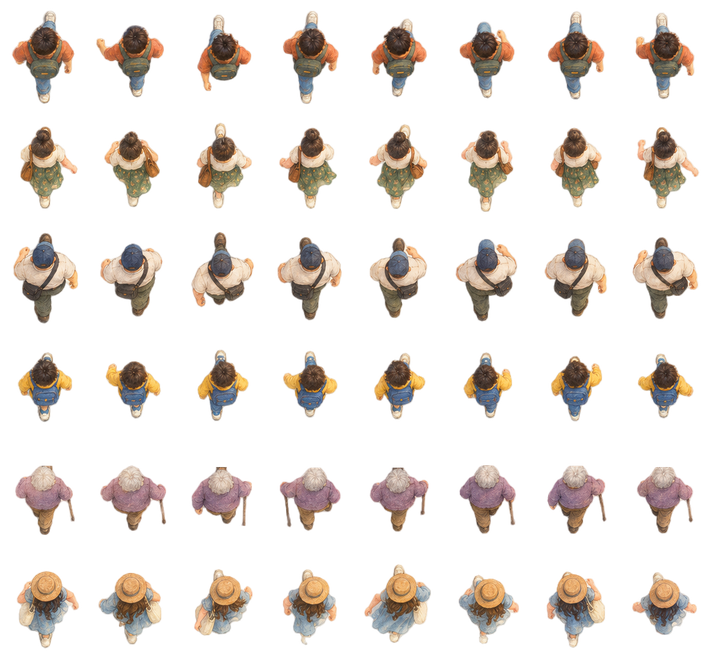
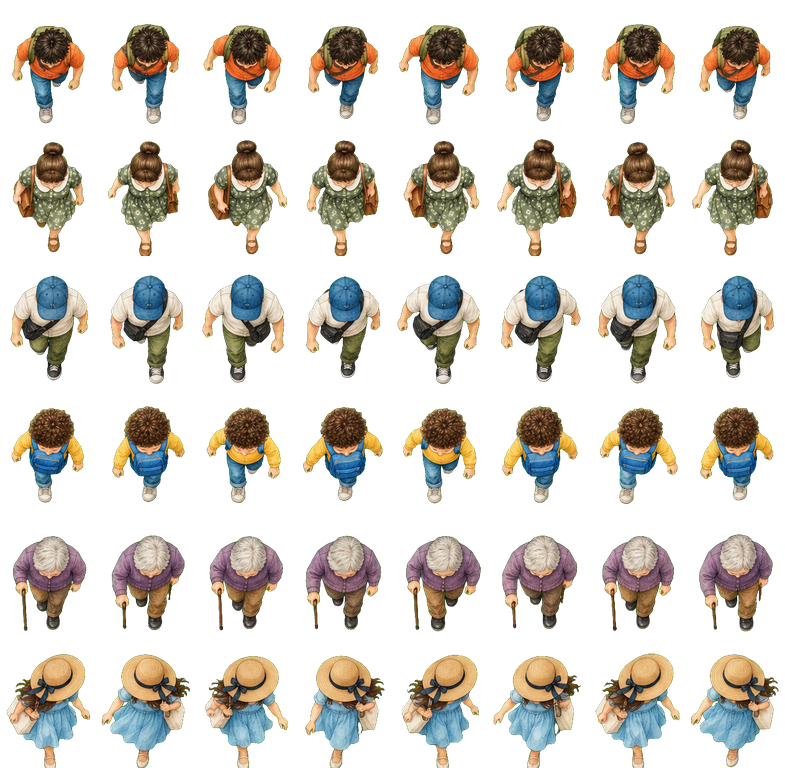
Grass: walkers from the new green-screen walk-cycle sheet
Claude-Session: https://claude.ai/code/session_01BFTrPeTy6t3nrDco95dHdX

diff --git a/public/grass/index.html b/public/grass/index.html
@@ -526,7 +526,7 @@ window.addEventListener("message", (e) => { if (e.data && typeof e.data.wind ===
       if (walkInfo) {
         const c = ((q.ph / 6.2832) % 1 + 1) % 1, frame = moving ? Math.floor(c * 8) % 8 : 0;
         const { w, h, cw, ch } = walkInfo, hh = 0.26, hw = hh * cw / ch;
-        put(q.x, q.z, hw, hh, q.rot - Math.PI / 2, 3, 1, 0, (frame * cw) / w, (q.char * ch) / h, cw / w, ch / h);
+        put(q.x, q.z, hw, hh, q.rot + (walkInfo.faces === "down" ? Math.PI / 2 : -Math.PI / 2), 3, 1, 0, (frame * cw) / w, (q.char * ch) / h, cw / w, ch / h);
       } else put(q.x, q.z, 0.1, 0.18, q.rot, 2, 1, moving ? q.ph : Math.sin(t * 1.5 + q.ph) * 0.2, q.shirt[0], q.shirt[1], q.shirt[2], q.v);
     }
     gl.useProgram(spr.p);
